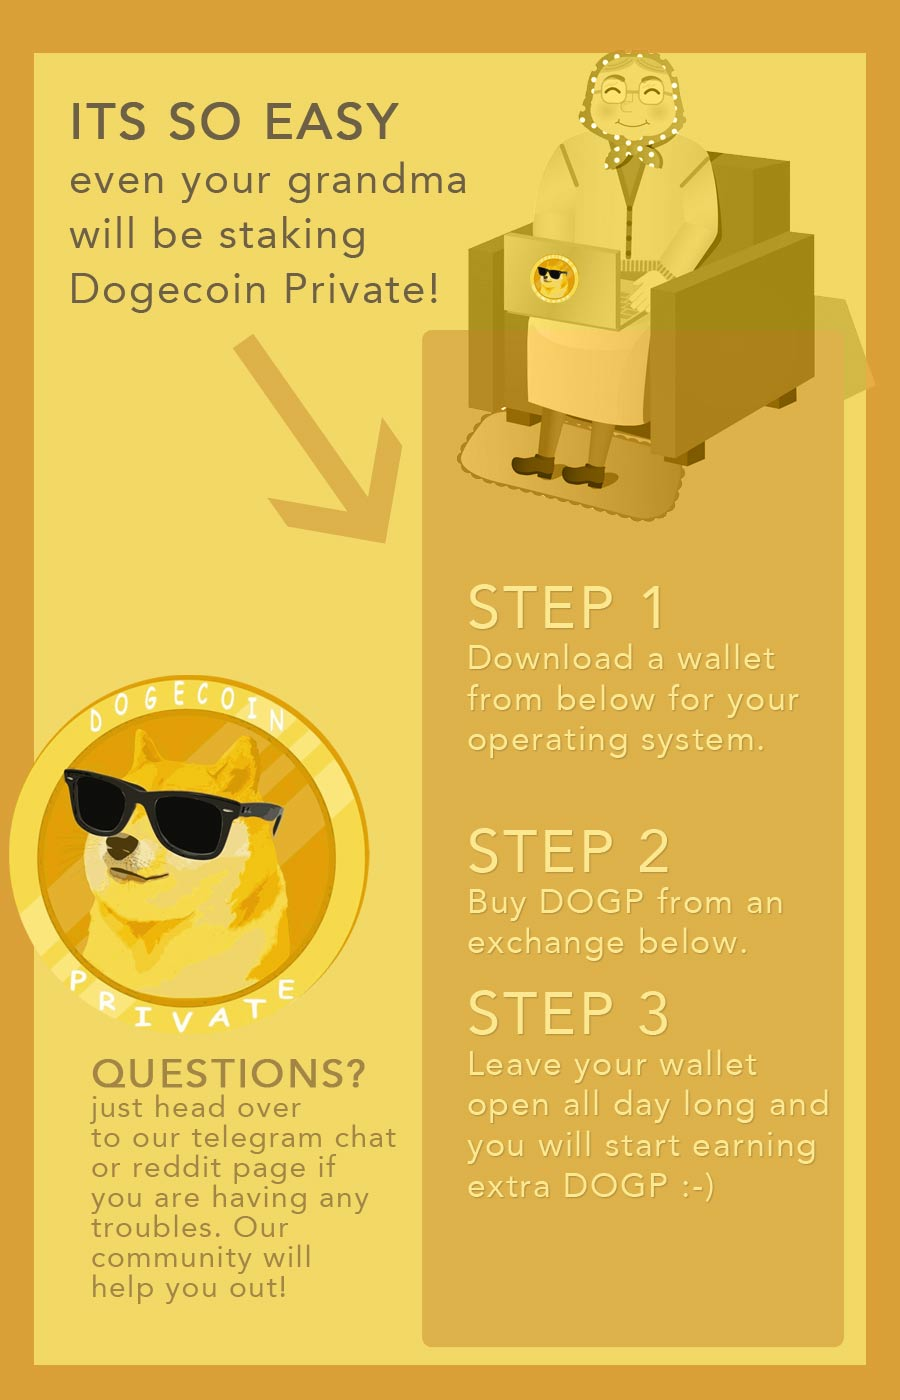
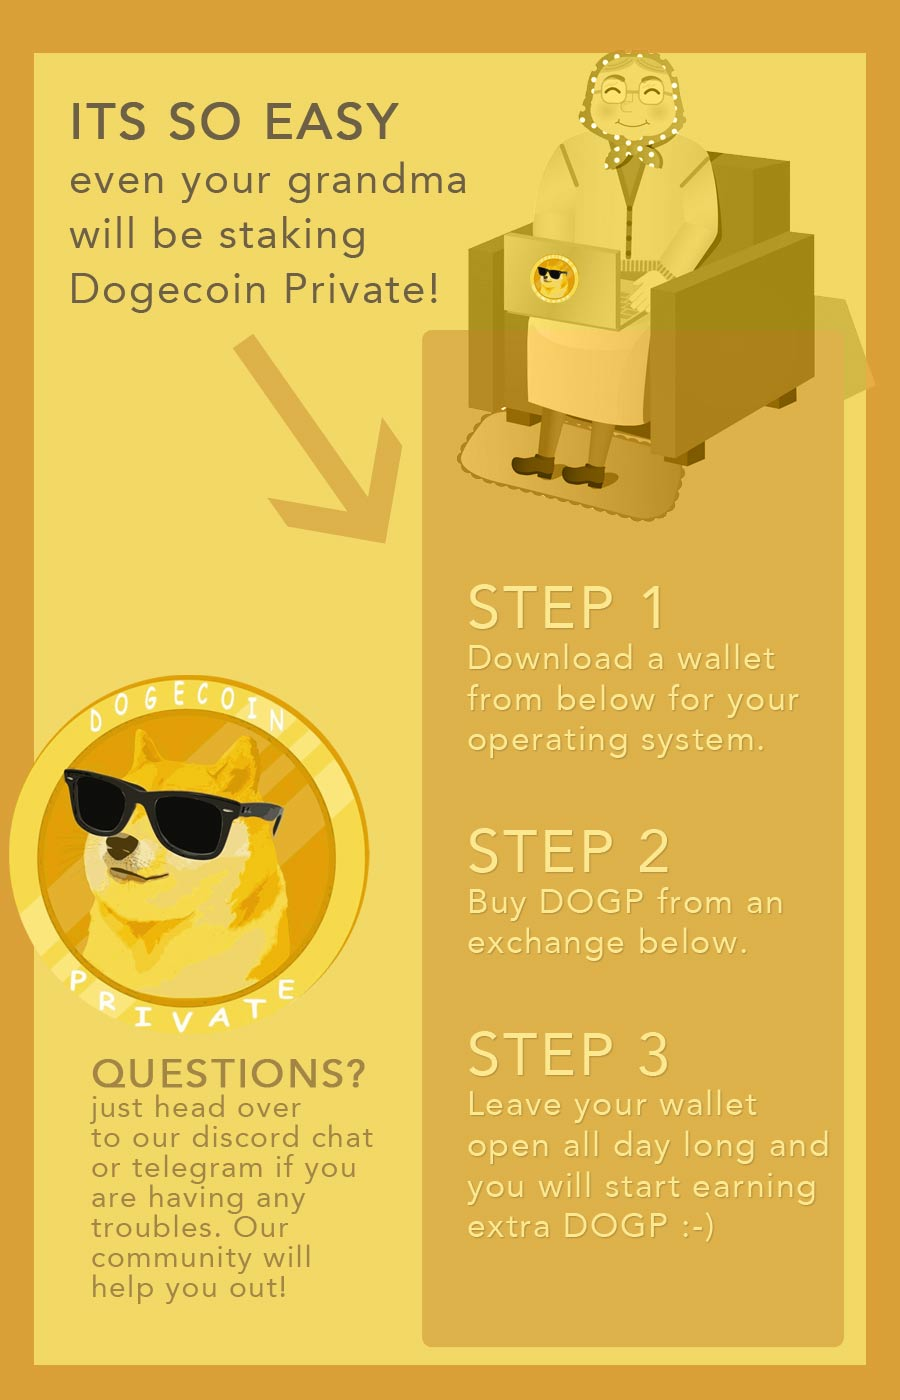
Add files via upload
adding discord chat logo and link. Adding also soon coming Altilly exchange, :-0

Changed region(s): [[0.4978, 0.7064, 0.9333, 0.8907], [0.0933, 0.7986, 0.4356, 0.86]]

diff --git a/index.html b/index.html
@@ -46,7 +46,7 @@ much moon! $DOGP Dogecoin Private gives you anonymous transactions, POS blockcha
 <br>
 <img src="exchange2.jpg" width="400" height="94">
 <br>
-&nbsp;&nbsp;&nbsp;&nbsp;&nbsp;&nbsp;<a href="https://www.enmanet.com/market/BTC-DOGP">BTC-DOGP</a>
+&nbsp;&nbsp;&nbsp;&nbsp;&nbsp;&nbsp;<a href="https://www.enmanet.com/market/BTC-DOGP">BTC-DOGP</a> | Altilly (coming soon!)
 <br><br>
 We recommend at least 1000 DOGP for staking in your wallet. And 10,000 DOGP is required for a MasterNode.
 <br>
@@ -71,7 +71,7 @@ Simply open your wallet and minimize and leave it open all day and you will star
 <br>
 <img src="social.jpg" width="400" height="94">
 <br>
-<a href="https://www.reddit.com/user/PrivateDOGP">Reddit</a> | <a href="https://twitter.com/privateDOGP">Twitter @PrivateDOGP</a> | <a href="https://t.me/PrivateDOGP">Telegram</a>
+<a href="https://discord.gg/8u2TVCZ">Discord</a> | <a href="https://twitter.com/privateDOGP">Twitter @PrivateDOGP</a> | <a href="https://t.me/PrivateDOGP">Telegram</a>
 </td>
 
    </TR>
